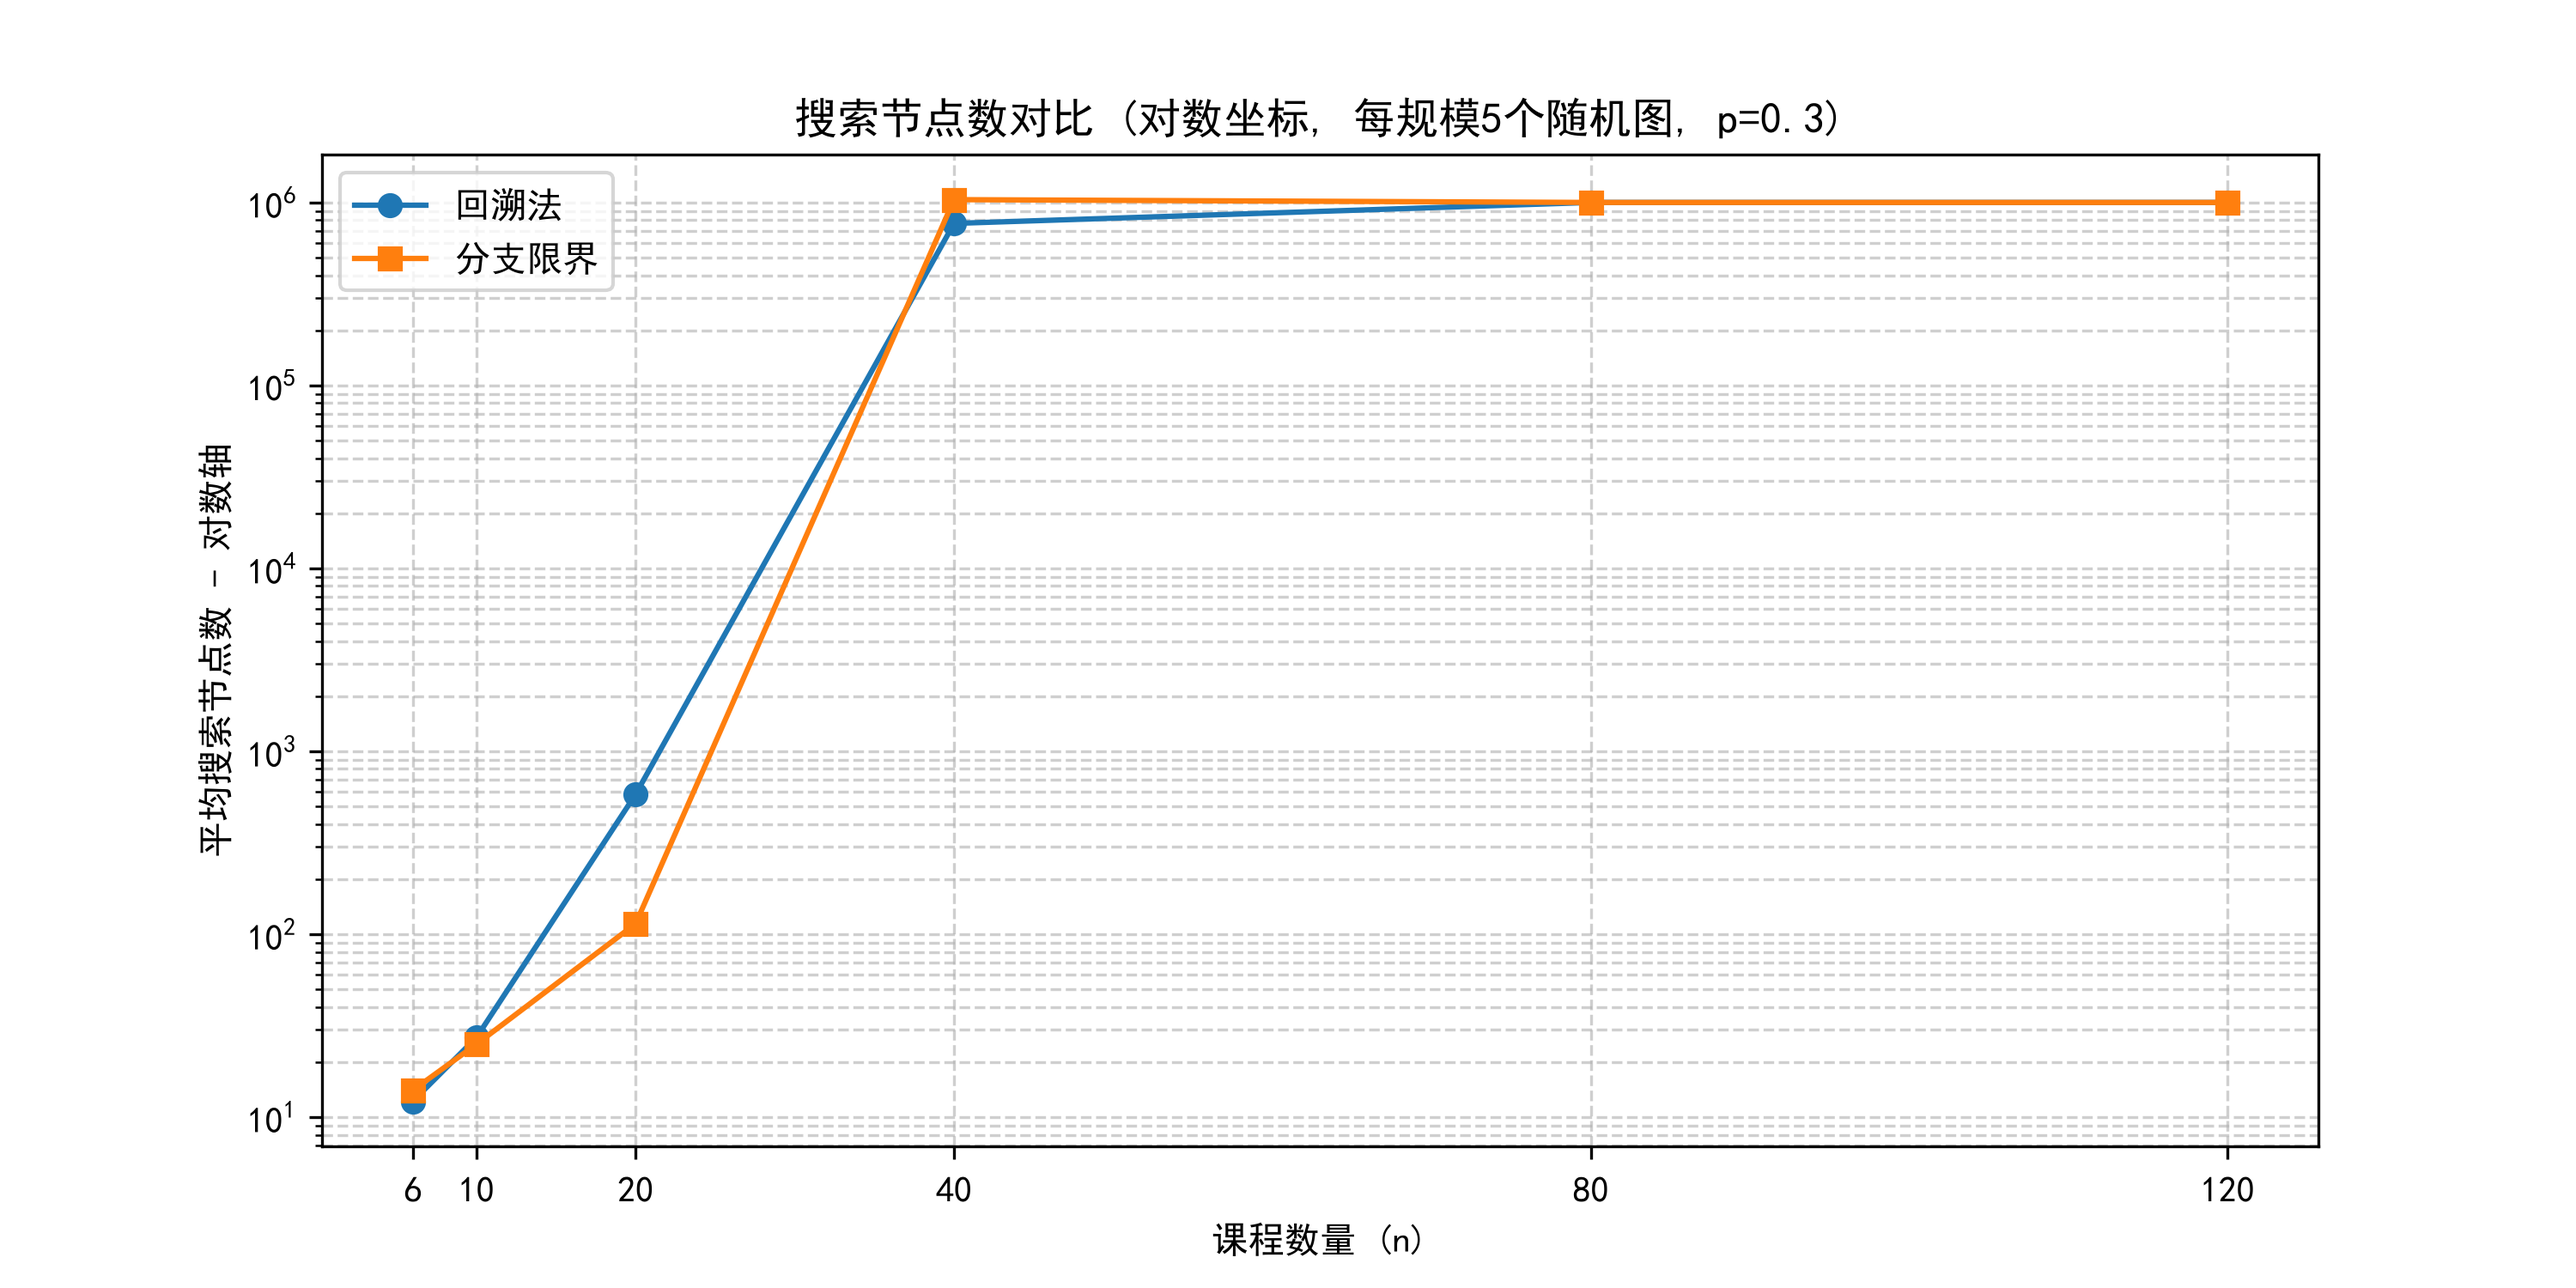
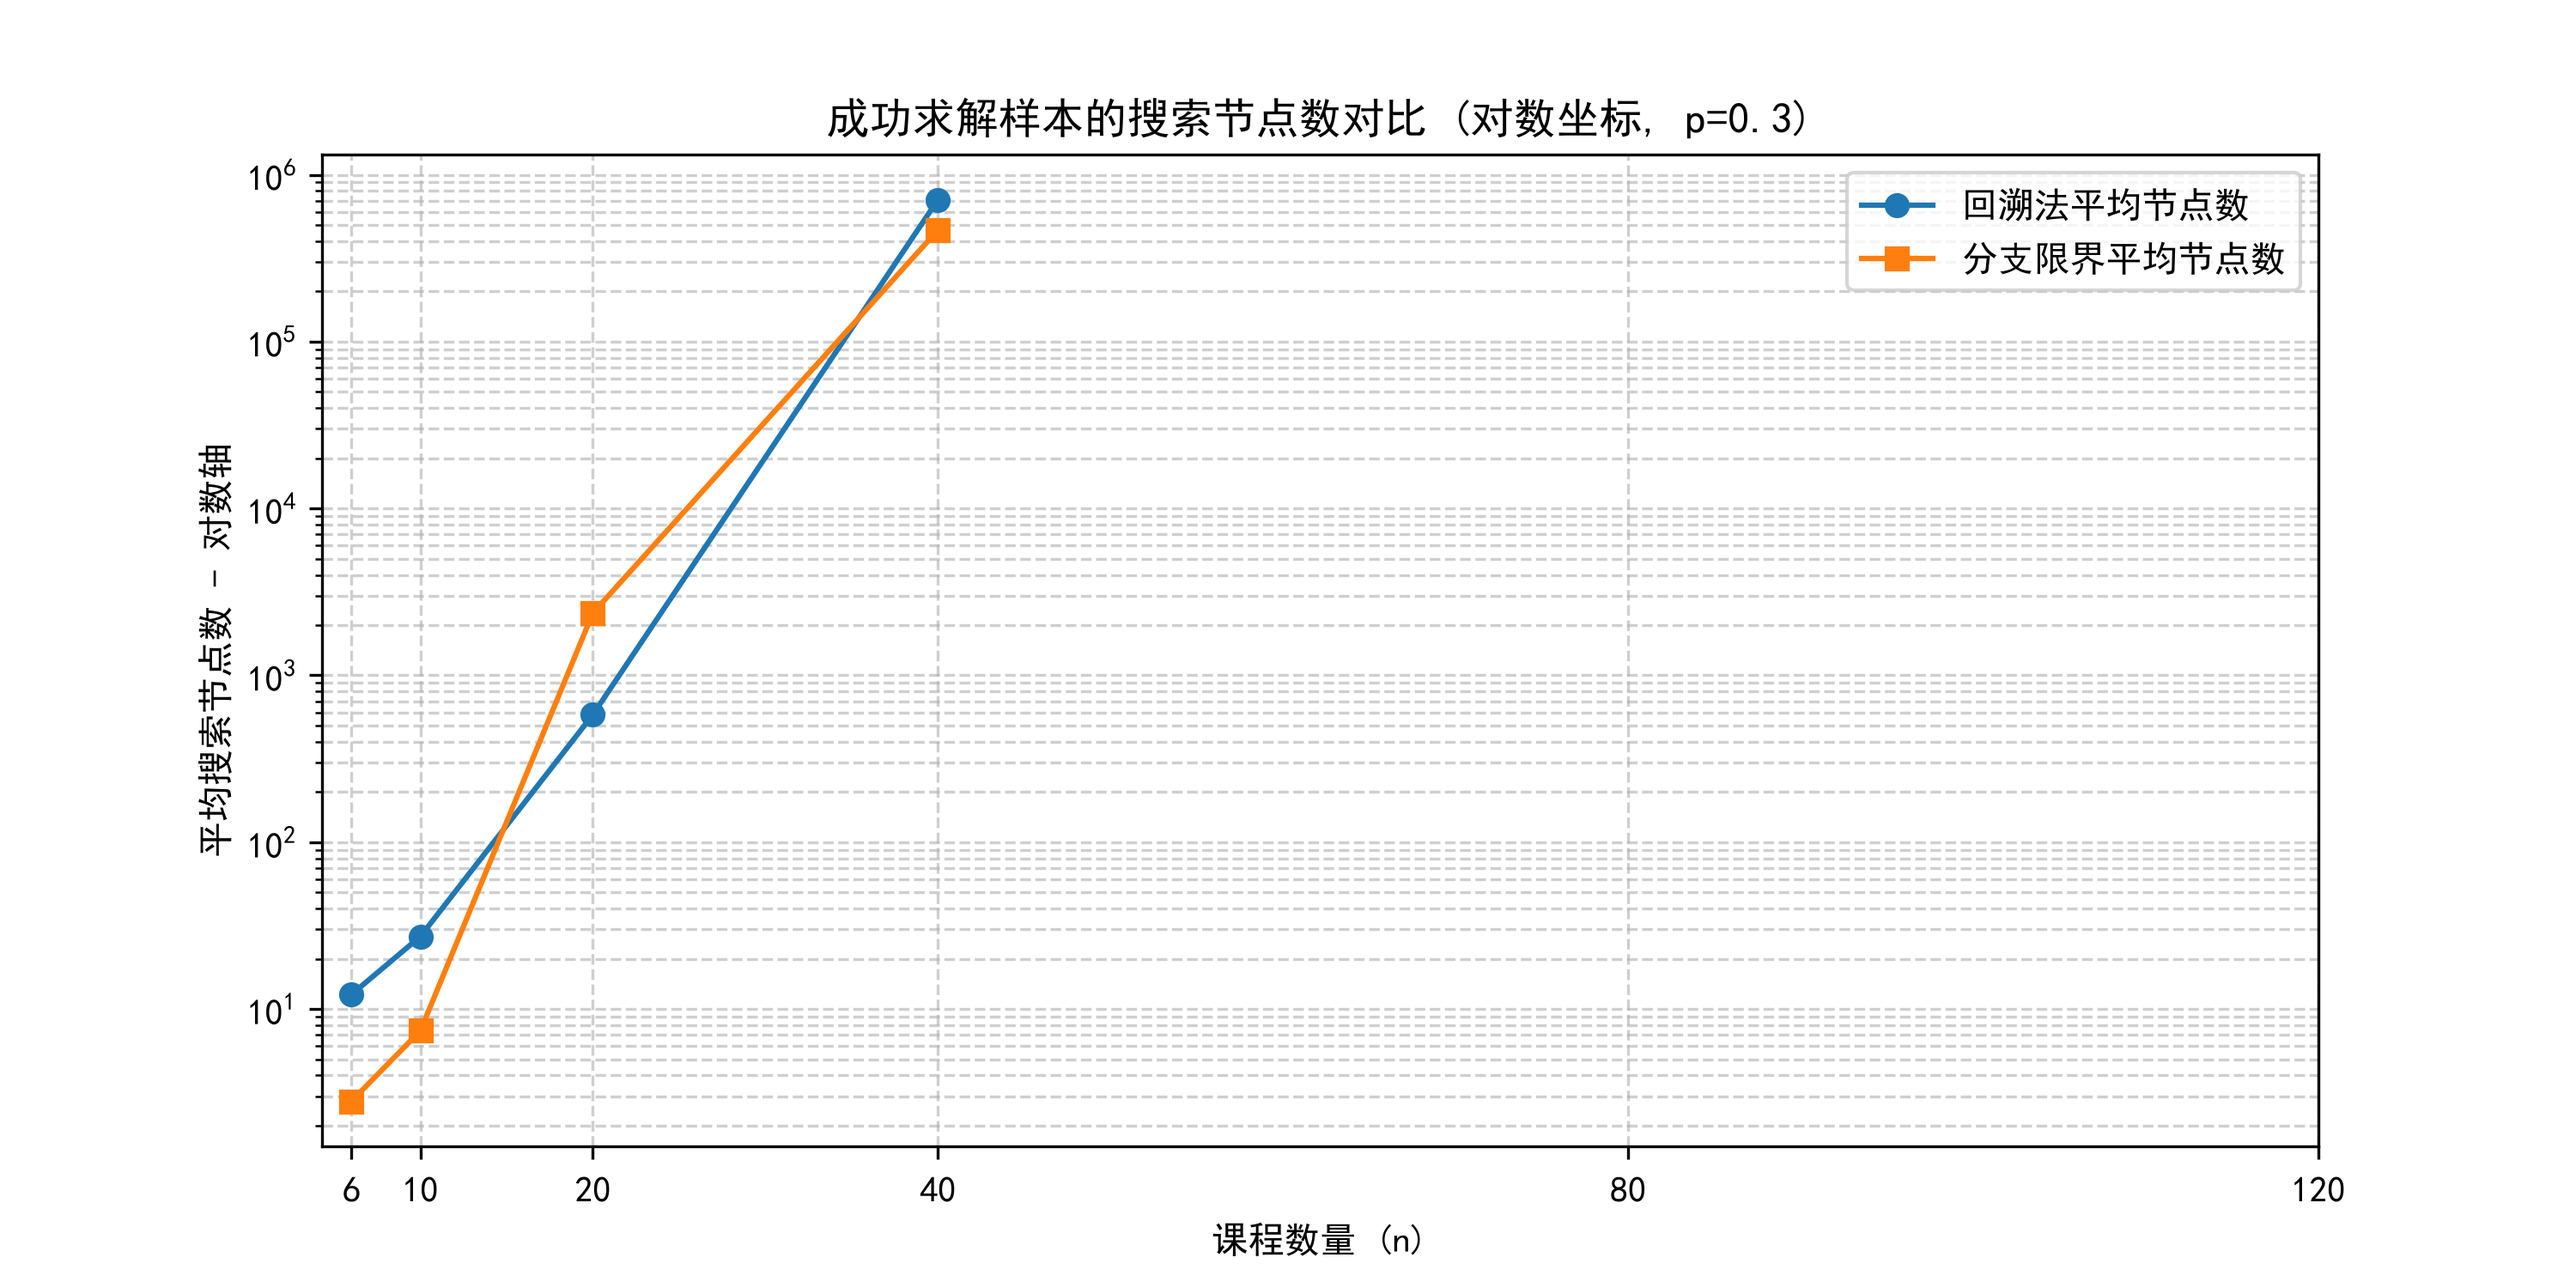
feat: 最终版交付！完善算法超时逻辑，修复实验统计偏差，生成最终高清对比图与可视化图表

diff --git a/experiments/plot.py b/experiments/plot.py
@@ -5,48 +5,70 @@ import matplotlib.pyplot as plt
 plt.rcParams['font.sans-serif'] = ['SimHei']
 plt.rcParams['axes.unicode_minus'] = False
 
-# 汇总数据
-data = {} # data[n][method] = {'times': [], 'nodes': []}
+data = {}
 
 with open("report/results_raw.csv", encoding="utf-8") as f:
     for row in csv.DictReader(f):
         n, method = int(row["Size"]), row["Method"]
-        if n not in data: data[n] = {'backtrack': {'times': [], 'nodes': []}, 'bnb': {'times': [], 'nodes': []}}
-        data[n][method]['times'].append(float(row["Time(s)"]))
-        data[n][method]['nodes'].append(int(row["Nodes"]))
+        if n not in data:
+            data[n] = {'backtrack': {'times': [], 'nodes': []}, 'bnb': {'times': [], 'nodes': []}}
+
+        t = float(row["Time(s)"])
+        nodes = int(row["Nodes"])
+
+        # 耗时：把正常和超时（=30）分开记录
+        if t < 30.0:
+            data[n][method]['times'].append(t)
+        else:
+            data[n][method]['times'].append(30.0)
+
+        # 节点：只记录真正跑出来的节点数
+        if nodes != -1:
+            data[n][method]['nodes'].append(nodes)
 
 sizes = sorted(data.keys())
-bt_t = [statistics.mean(data[n]['backtrack']['times']) for n in sizes]
-bt_t_err = [statistics.stdev(data[n]['backtrack']['times']) if len(data[n]['backtrack']['times'])>1 else 0 for n in sizes]
-bnb_t = [statistics.mean(data[n]['bnb']['times']) for n in sizes]
-bnb_t_err = [statistics.stdev(data[n]['bnb']['times']) if len(data[n]['bnb']['times'])>1 else 0 for n in sizes]
 
-# 1. 耗时对比图
+# ---------- 图1：耗时对比 ----------
+bt_t = [statistics.mean(data[n]['backtrack']['times']) for n in sizes]
+bnb_t = [statistics.mean(data[n]['bnb']['times']) for n in sizes]
+
 plt.figure(figsize=(10, 5))
-plt.errorbar(sizes, bt_t, yerr=bt_t_err, marker='o', label='回溯法', capsize=5)
-plt.errorbar(sizes, bnb_t, yerr=bnb_t_err, marker='s', label='分支限界', capsize=5)
-plt.yscale('log') # 【精修】对数坐标
-plt.xticks(sizes) # 强制刻度为实际规模
-plt.title("算法耗时对比 (对数坐标, 每规模5个随机图, p=0.3, 30s超时)")
+plt.plot(sizes, bt_t, marker='o', label='回溯法平均耗时')
+plt.plot(sizes, bnb_t, marker='s', label='分支限界平均耗时')
+plt.yscale('log')
+plt.xticks(sizes)
+plt.title("算法平均耗时对比 (对数坐标, p=0.3, 上限30s)")
 plt.xlabel("课程数量 (n)")
 plt.ylabel("平均耗时 (秒) - 对数轴")
-plt.legend()
 plt.grid(True, linestyle='--', alpha=0.6, which='both')
+plt.legend()
 plt.savefig("report/time_compare.png", dpi=300)
 plt.show()
 
-# 2. 节点数对比图
-bt_n = [statistics.mean(data[n]['backtrack']['nodes']) for n in sizes]
-bnb_n = [statistics.mean(data[n]['bnb']['nodes']) for n in sizes]
+# ---------- 图2：节点数对比（仅看成功样本） ----------
+bt_n, bnb_n = [], []
+for n in sizes:
+    bt_valid = data[n]['backtrack']['nodes']
+    bnb_valid = data[n]['bnb']['nodes']
+    bt_n.append(statistics.mean(bt_valid) if bt_valid else None)
+    bnb_n.append(statistics.mean(bnb_valid) if bnb_valid else None)
+
 plt.figure(figsize=(10, 5))
-plt.plot(sizes, bt_n, marker='o', label='回溯法')
-plt.plot(sizes, bnb_n, marker='s', label='分支限界')
-plt.yscale('log') # 【精修】对数坐标
+# 只画有成功样本的点
+valid_bt_x = [sizes[i] for i in range(len(sizes)) if bt_n[i] is not None]
+valid_bt_y = [v for v in bt_n if v is not None]
+valid_bnb_x = [sizes[i] for i in range(len(sizes)) if bnb_n[i] is not None]
+valid_bnb_y = [v for v in bnb_n if v is not None]
+
+plt.plot(valid_bt_x, valid_bt_y, marker='o', label='回溯法平均节点数')
+plt.plot(valid_bnb_x, valid_bnb_y, marker='s', label='分支限界平均节点数')
+
+plt.yscale('log')
 plt.xticks(sizes)
-plt.title("搜索节点数对比 (对数坐标, 每规模5个随机图, p=0.3)")
+plt.title("成功求解样本的搜索节点数对比 (对数坐标, p=0.3)")
 plt.xlabel("课程数量 (n)")
 plt.ylabel("平均搜索节点数 - 对数轴")
-plt.legend()
 plt.grid(True, linestyle='--', alpha=0.6, which='both')
+plt.legend()
 plt.savefig("report/nodes_compare.png", dpi=300)
 plt.show()

diff --git a/experiments/run_all.py b/experiments/run_all.py
@@ -26,8 +26,8 @@ def main():
     runs_per_size = 5
     results = []
 
-    print(f"{'规模':<5} | {'算法':<10} | {'平均耗时(s)':<12} | {'耗时标准差':<10} | {'平均节点数':<10}")
-    print("-" * 65)
+    print(f"{'规模':<5} | {'算法':<10} | {'平均耗时(s)':<12} | {'成功次数':<8} | {'成功样本平均节点数':<15}")
+    print("-" * 70)
 
     for n in sizes:
         graphs = [generate_random_graph(n, 0.3, seed=i * 100 + n) for i in range(runs_per_size)]
@@ -42,22 +42,31 @@ def main():
                     if method == 'backtrack':
                         K, sol, nodes = color_backtrack(G, time_limit=30)
                     else:
-                        K, sol, _, _, _ = color_bnb(G, time_limit=30)
+                        # 【修复】正确接收 BnB 返回的出堆次数
+                        K, sol, nodes, _, _ = color_bnb(G, time_limit=30)
+
                     real_times.append(time.time() - start)
                     nodes_list.append(nodes)
                     assert verify_coloring(n, edges, sol)
                 except TimeoutError:
                     timeouts += 1
                     real_times.append(30.0)
-                    nodes_list.append(999999)
+                    nodes_list.append(-1)  # 【修复】超时用 -1 占位，不参与平均
 
             avg_t = statistics.mean(real_times)
-            std_t = statistics.stdev(real_times) if len(real_times) > 1 else 0.0
-            avg_n = statistics.mean(nodes_list)
 
+            # 【修复】只计算成功跑完的样本的节点数平均
+            valid_nodes = [x for x in nodes_list if x != -1]
+            avg_n = statistics.mean(valid_nodes) if valid_nodes else -1
+
+            success_count = runs_per_size - timeouts
             note = f"(超时{timeouts}次)" if timeouts > 0 else ""
-            print(f"{n:<5} | {method:<10} | {avg_t:<12.4f} | {std_t:<10.4f} | {avg_n:<10.0f} {note}")
 
+            avg_n_str = f"{avg_n:.0f}" if avg_n != -1 else "N/A"
+            print(
+                f"{n:<5} | {method:<10} | {avg_t:<12.4f} | {success_count}/{runs_per_size:<5} | {avg_n_str:<15} {note}")
+
+            # 记录原始数据，超时的节点记为 -1
             for i, t in enumerate(real_times):
                 results.append([n, method, i, round(t, 6), nodes_list[i]])
 
